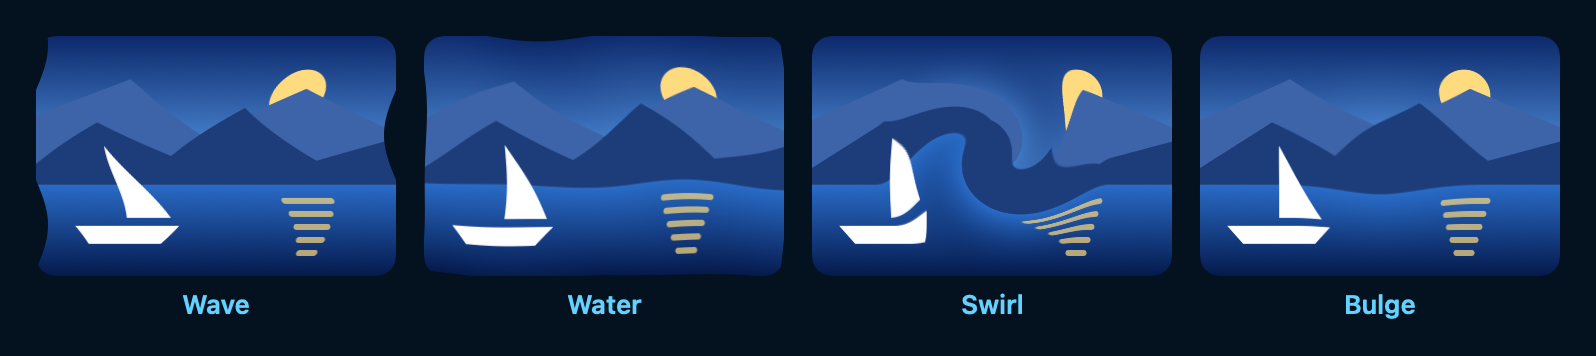
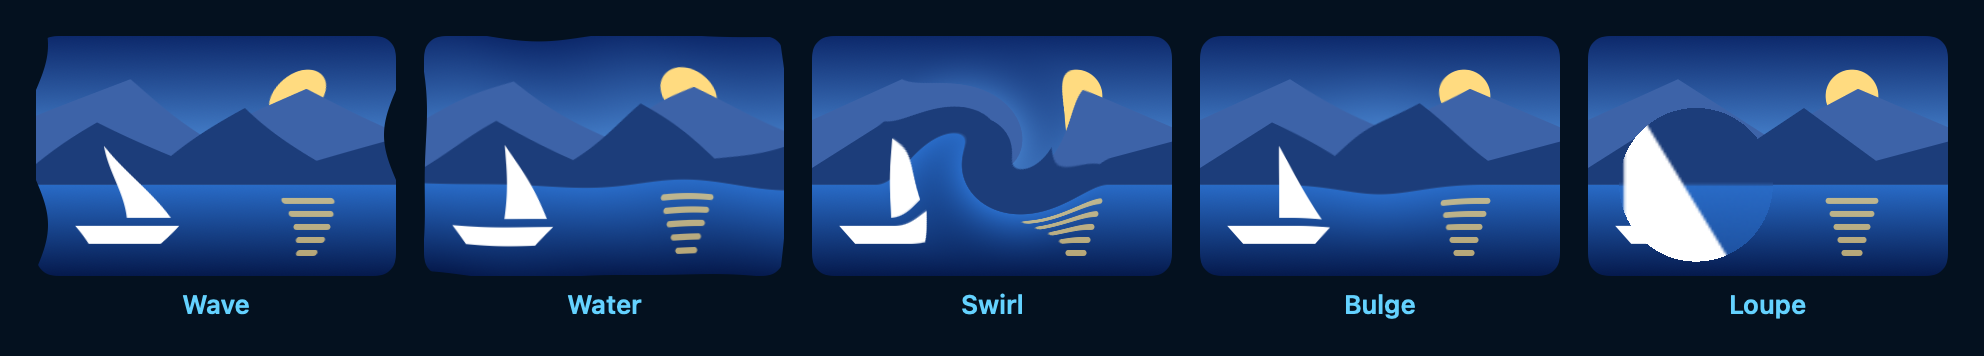
feat: add a loupe distortion
loupe(center:radius:magnification:) enlarges a circle of the view by
the same factor everywhere inside it and leaves the outside alone, like
a magnifying glass held over the view. bulge(strength:radius:center:)
already magnifies, but with a smooth falloff and no edge; a loupe that
follows a drag needs a uniform zoom and a visible rim. Inferno, the
most used SwiftUI shader collection, ships two loupe shaders, and this
was the one interaction of that kind the package lacked.

The magnification is limited to 1...20 (NaN means 1, which switches
the effect off), the radius is a fraction of the view's shorter side
like the swirl and bulge radii, and the sample offset is bounded by the
view's diagonal like every other distortion.

The gallery and the distortion screenshot gain a Loupe tile; the
distortion grid now has five columns.

diff --git a/Sources/SwiftShaders/Effects/DistortionEffects.swift b/Sources/SwiftShaders/Effects/DistortionEffects.swift
@@ -111,4 +111,49 @@ extension View {
             }
         ))
     }
+
+    /// Enlarges a circle of the view, like a magnifying glass held over it. Unlike
+    /// ``SwiftUICore/View/bulge(strength:radius:center:)``, the magnification is the same across
+    /// the whole circle and the circle has a sharp edge.
+    ///
+    /// Move the loupe with a drag:
+    ///
+    /// ```swift
+    /// @State private var point = UnitPoint.center
+    ///
+    /// var body: some View {
+    ///     GeometryReader { proxy in
+    ///         Image("map")
+    ///             .resizable()
+    ///             .loupe(center: point, magnification: 2.5)
+    ///             .gesture(DragGesture(minimumDistance: 0).onChanged { drag in
+    ///                 point = UnitPoint(
+    ///                     x: drag.location.x / proxy.size.width,
+    ///                     y: drag.location.y / proxy.size.height
+    ///                 )
+    ///             })
+    ///     }
+    /// }
+    /// ```
+    ///
+    /// - Parameters:
+    ///   - center: The center of the loupe, as a fraction of the view's size.
+    ///   - radius: The loupe's radius, as a fraction of the view's shorter side.
+    ///   - magnification: How much larger the content appears, from 1 (no change) to 20.
+    nonisolated public func loupe(center: UnitPoint = .center, radius: Double = 0.25, magnification: Double = 2) -> some View {
+        let magnification = ShaderInput.clamped(magnification, to: 1...20)
+        return modifier(ShaderEffect(
+            kind: .distortion,
+            isEnabled: magnification > 1,
+            maxSampleOffset: { size in ShaderInput.sampleOffset(ShaderInput.radius(radius, in: size), in: size) },
+            shader: { size, _ in
+                ShaderLibrary.swiftShaders.ssLoupe(
+                    .float2(size),
+                    .float2(ShaderInput.position(center, in: size)),
+                    .float(ShaderInput.radius(radius, in: size)),
+                    .float(magnification)
+                )
+            }
+        ))
+    }
 }

diff --git a/Tests/SwiftShadersTests/DistortionEffectTests.swift b/Tests/SwiftShadersTests/DistortionEffectTests.swift
@@ -70,6 +70,20 @@ struct DistortionEffectTests {
         #expect(magnified[1, 1] == original[1, 1])
     }
 
+    @Test("A loupe enlarges the area inside its circle and leaves the rest alone")
+    func loupe() throws {
+        let square = whiteSquare(side: 8)
+        let original = try Pixels(square, width: 32, height: 32)
+        // Radius 0.5 of 32 points is 16. At magnification 2 the square (12..<20) appears twice
+        // as large, 8..<24, and the corners outside the circle do not move.
+        let pixels = try Pixels(square.loupe(radius: 0.5, magnification: 2), width: 32, height: 32)
+        #expect(original[9, 16].red == 0 && pixels[9, 16].red > 200)
+        #expect(pixels[22, 16].red > 200 && pixels[25, 16].red < 50)
+        #expect(pixels[1, 1] == original[1, 1])
+        let unchanged = try Pixels(square.loupe(magnification: .nan), width: 32, height: 32)
+        #expect(unchanged.maxDifference(from: original) == 0)
+    }
+
     @Test("Water moves pixels by at most the amplitude and repeats for a fixed time")
     func water() throws {
         let view = whiteBar()

diff --git a/Tests/SwiftShadersTests/InputSafetyTests.swift b/Tests/SwiftShadersTests/InputSafetyTests.swift
@@ -25,6 +25,7 @@ struct InputSafetyTests {
             ("swirl", sampleOffset(of: base.swirl(radius: .infinity), in: size)),
             ("bulge", sampleOffset(of: base.bulge(radius: 1e12), in: size)),
             ("water", sampleOffset(of: base.water(amplitude: 1e12, time: .fixed(0)), in: size)),
+            ("loupe", sampleOffset(of: base.loupe(radius: .infinity), in: size)),
             ("chromaticAberration", sampleOffset(of: base.chromaticAberration(offset: 1e12), in: size)),
             ("glitch", sampleOffset(of: base.glitch(intensity: .infinity, time: .fixed(0)), in: size)),
             ("ripple", sampleOffset(of: base.ripple(origin: .zero, elapsedTime: 1, style: RippleStyle(amplitude: 1e12)), in: size)),

diff --git a/Examples/ShaderGallery/ShaderGallery/EffectCatalog.swift b/Examples/ShaderGallery/ShaderGallery/EffectCatalog.swift
@@ -108,5 +108,8 @@ extension EffectDemo {
         EffectDemo(name: "Bulge", group: .distortion, parameter: "Strength", range: -1...1, initialValue: 0.6) { content, value, _ in
             AnyView(content.bulge(strength: value, radius: 0.45))
         },
+        EffectDemo(name: "Loupe", group: .distortion, parameter: "Magnification", range: 1...6, initialValue: 2.5) { content, value, _ in
+            AnyView(content.loupe(center: UnitPoint(x: 0.3, y: 0.62), radius: 0.32, magnification: value))
+        },
     ]
 }

diff --git a/Tests/SwiftShadersTests/LibraryTests.swift b/Tests/SwiftShadersTests/LibraryTests.swift
@@ -12,7 +12,7 @@ struct LibraryTests {
         "ssFilmGrain", "ssDither", "ssGradientMap", "ssShimmer",
         "ssPixelate", "ssChromaticAberration", "ssSketch", "ssEmboss", "ssSharpen", "ssHalftone",
         "ssKaleidoscope", "ssGlitch", "ssRipple", "ssProgressiveBlur",
-        "ssWave", "ssSwirl", "ssBulge", "ssWater",
+        "ssWave", "ssSwirl", "ssBulge", "ssWater", "ssLoupe",
         "ssCheckerboard", "ssStripes", "ssPlasma",
         "ssDissolve", "ssCircleReveal", "ssRadialWipe",
     ]

diff --git a/Tests/SwiftShadersTests/Screenshots.swift b/Tests/SwiftShadersTests/Screenshots.swift
@@ -22,7 +22,7 @@ struct Screenshots {
 
     @Test("Effect grids", arguments: Appearance.allCases)
     func effectGrids(appearance: Appearance) throws {
-        let groups: [(EffectGroup, columns: Int)] = [(.color, 4), (.layer, 3), (.distortion, 4)]
+        let groups: [(EffectGroup, columns: Int)] = [(.color, 4), (.layer, 3), (.distortion, 5)]
         for (group, columns) in groups {
             var tiles: [AnyView] = []
             if group == .color {

diff --git a/Sources/SwiftShaders/SwiftShaders.docc/HowEffectsAreDrawn.md b/Sources/SwiftShaders/SwiftShaders.docc/HowEffectsAreDrawn.md
@@ -21,7 +21,7 @@ antialiased edges.
 ### Distortions
 
 A distortion effect returns the position whose color the pixel should show. The wave, water,
-swirl and bulge effects are distortions. They tell SwiftUI how far they move content through
+swirl, bulge and loupe effects are distortions. They tell SwiftUI how far they move content through
 `maxSampleOffset`, so SwiftUI can draw the view into a larger offscreen layer and content moved
 past an edge is not cut off. SwiftShaders limits that offset to the view's diagonal: an offset
 grows the offscreen layer on every side, and an unbounded one could allocate gigabytes for a
@@ -94,6 +94,7 @@ directly skips the argument checks described above. Most functions take the view
 | `ssWater` | distortion | size, time, amplitude, scale, speed |
 | `ssSwirl` | distortion | size, center, radius in points, angle in radians |
 | `ssBulge` | distortion | size, center, radius in points, strength |
+| `ssLoupe` | distortion | size, center, radius in points, magnification |
 | `ssPixelate` | layer | size, cell size |
 | `ssHalftone` | layer | size, cell size, angle in radians, ink color, paper color |
 | `ssSketch` | layer | size, strength, line width, line color, paper color |

diff --git a/Sources/SwiftShaders/SwiftShaders.docc/SwiftShaders.md b/Sources/SwiftShaders/SwiftShaders.docc/SwiftShaders.md
@@ -66,6 +66,7 @@ Motion is on, and the shaders' output is tested pixel by pixel on macOS and on a
 - ``SwiftUICore/View/water(amplitude:scale:speed:time:)``
 - ``SwiftUICore/View/swirl(angle:radius:center:)``
 - ``SwiftUICore/View/bulge(strength:radius:center:)``
+- ``SwiftUICore/View/loupe(center:radius:magnification:)``
 
 ### Ripples
 
